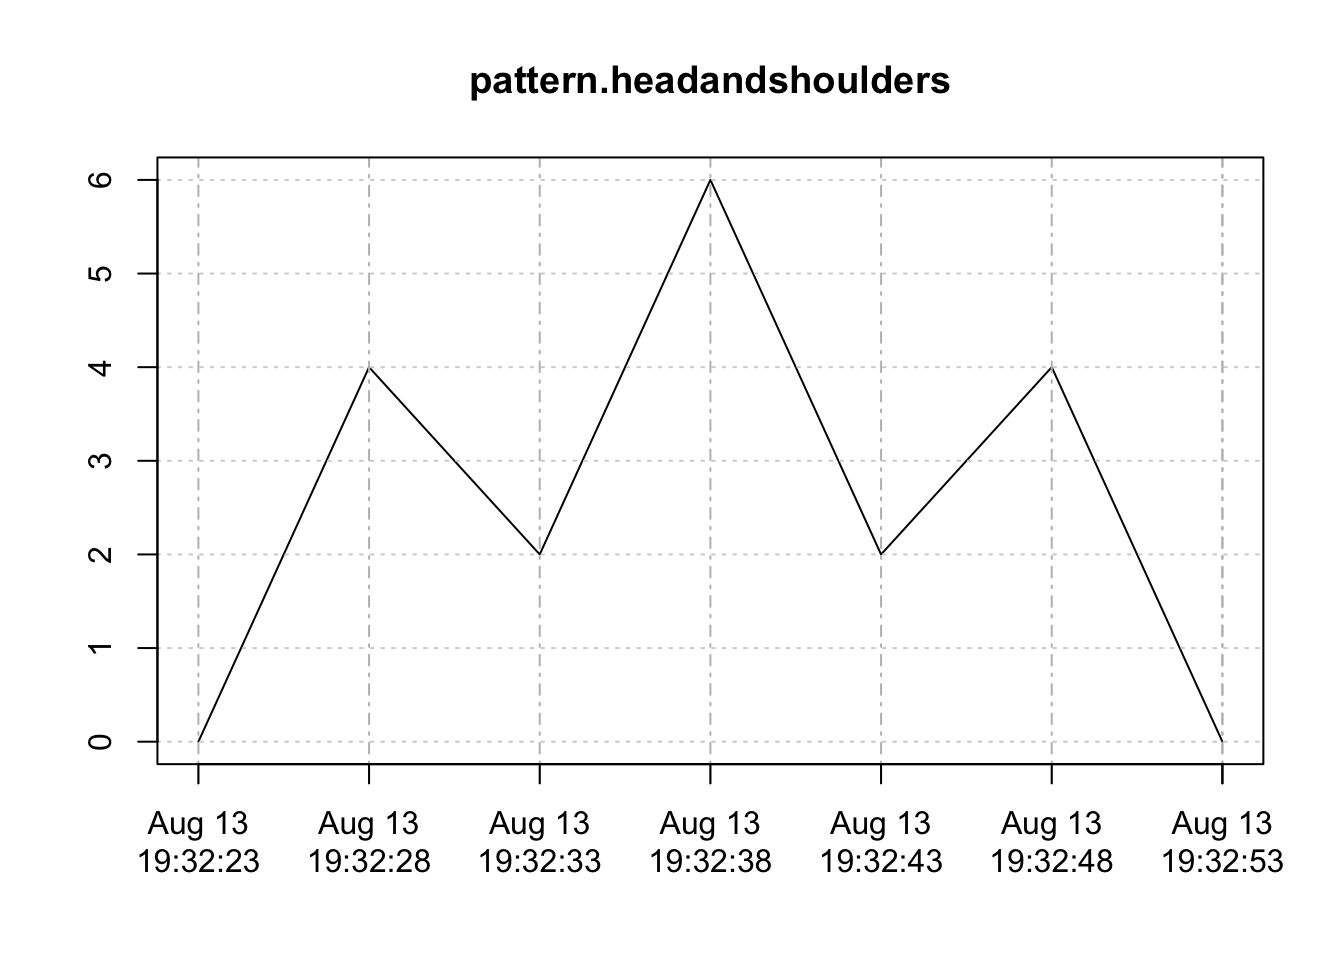
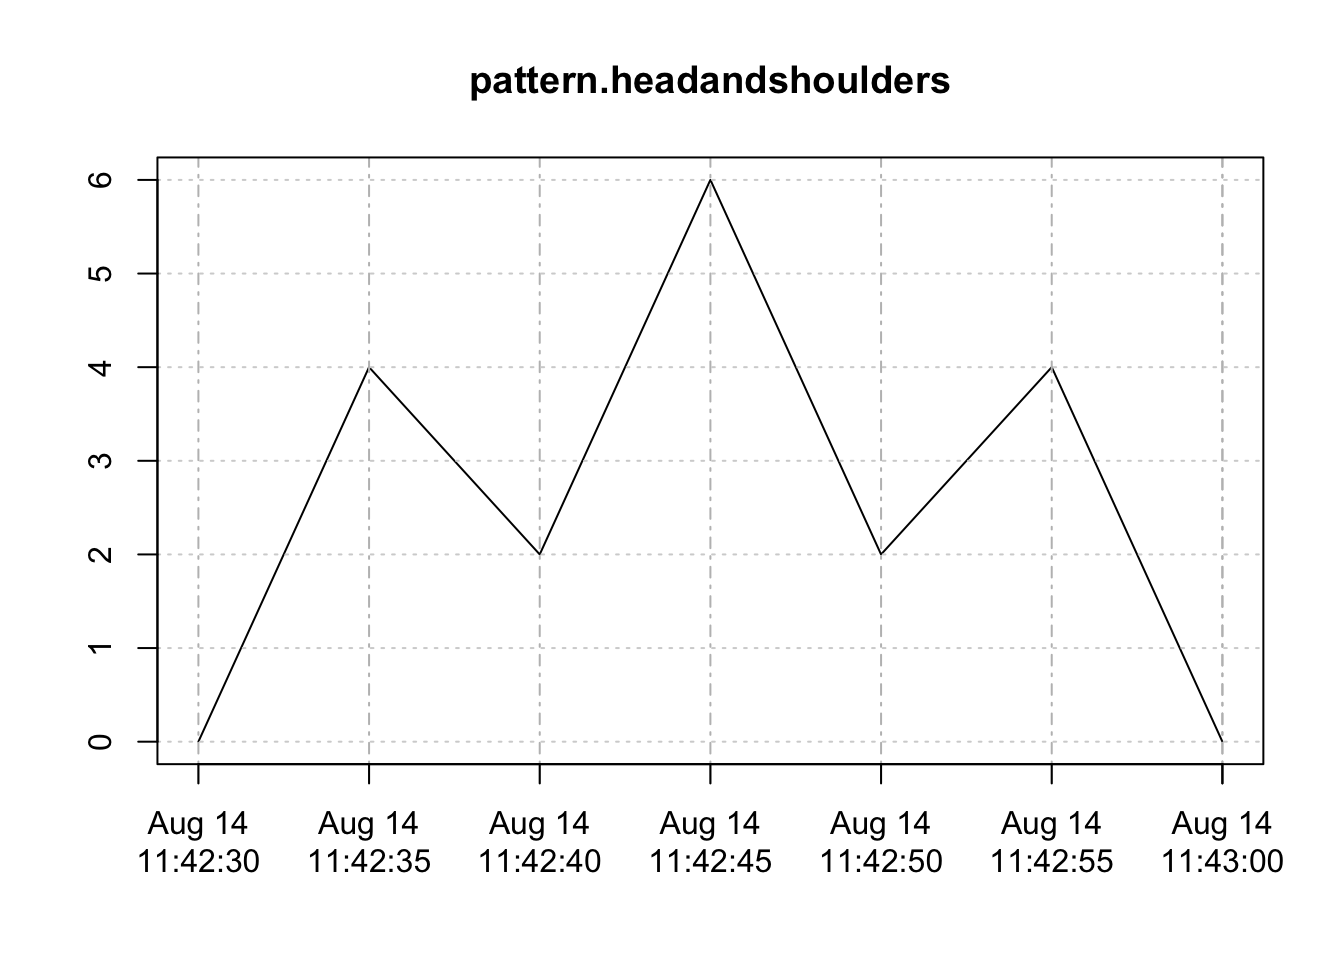
Forgot to render last commit

diff --git a/index.html b/index.html
@@ -11,7 +11,7 @@
 
 <meta name="author" content="Joshua Anthony Marsh" />
 
-<meta name="date" content="2016-08-13" />
+<meta name="date" content="2016-08-14" />
 
 <title>A Time Series Pattern Query Tool Using PIPs and Hybrid Template-Ruleset Matching</title>
 
@@ -290,14 +290,14 @@ div.tocify {
 
 <h1 class="title toc-ignore">A Time Series Pattern Query Tool Using PIPs and Hybrid Template-Ruleset Matching</h1>
 <h4 class="author"><em>Joshua Anthony Marsh</em></h4>
-<h4 class="date"><em>2016-08-13</em></h4>
+<h4 class="date"><em>2016-08-14</em></h4>
 
 </div>
 
 
 <div id="introduction" class="section level1">
 <h1>Introduction</h1>
-<p>The Time Series Pattern Query Tool (henceforth referred to as the “TSPatternQuery” for short) is meant for quick exploration of time series patterns, and is designed to be usable by individuals of varying skill. This package can be viewed as an implementation of the “real time hybrid pattern matching scheme” presented in <span class="citation">(Z. Zhang et al. 2010)</span>. In short, this is a sliding window algorithm. Important points are identified within the window at each offset. They are then compared to a template of the desired pattern using spearman’s rho as a similarity measure. Additional rules provided to the function may be used to increase accuracy, or to short circuit the algorithm in order to increase speed.</p>
+<p>TSPatternQuery is a Time Series Pattern Querying Tool meant for quick exploration of time series patterns. This package can be viewed as an implementation of the “real time hybrid pattern matching scheme” presented in <span class="citation">(Z. Zhang et al. 2010)</span>. In short, this is a sliding window algorithm. Important points are identified within the window at each offset. They are then compared to a template of the desired pattern using spearman’s rho as a similarity measure. Additional rules provided to the function may be used to increase accuracy, or to short circuit the algorithm in order to increase speed.</p>
 <p>The rest of this document will be laid out as follows. The first section will go into further detail explaining the underlying algorithm. The second section will present the different functions made available through the TSPatternQuery. This section will also briefly mention the CreateCustomTimeSeries function that has been provided to help the user in creating pattern templates. The last section will discuss best practices and provide examples.</p>
 </div>
 <div id="algorithm" class="section level1">
@@ -563,8 +563,8 @@ t.with.df &lt;- system.time(
 #Print the elapsed times
 cat(&quot;Elapsed Time Without Excluding Low Variance:&quot;, t.without.df[[3]], 
     &quot;\nElapsed Time With Excluding Low Variance:&quot;, t.with.df[[3]] )</code></pre>
-<pre><code>## Elapsed Time Without Excluding Low Variance: 0.511 
-## Elapsed Time With Excluding Low Variance: 0.181</code></pre>
+<pre><code>## Elapsed Time Without Excluding Low Variance: 0.411 
+## Elapsed Time With Excluding Low Variance: 0.139</code></pre>
 <p>Note that the previously 1st Matched Window from before no longer matches since it does not satisfy the distinctive feature of having a variance greater than 3.5. This may or may not be desireable depending on the circumstances.</p>
 <pre class="r"><code>length(results.with)</code></pre>
 <pre><code>## [1] 1</code></pre>
